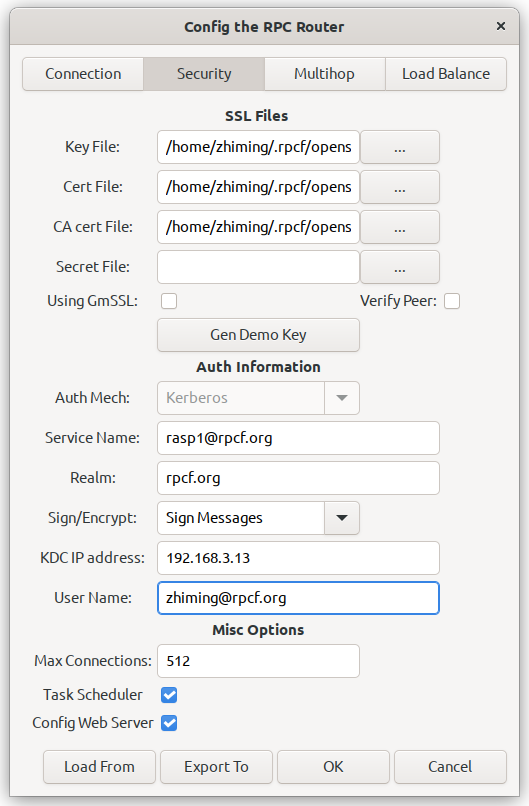
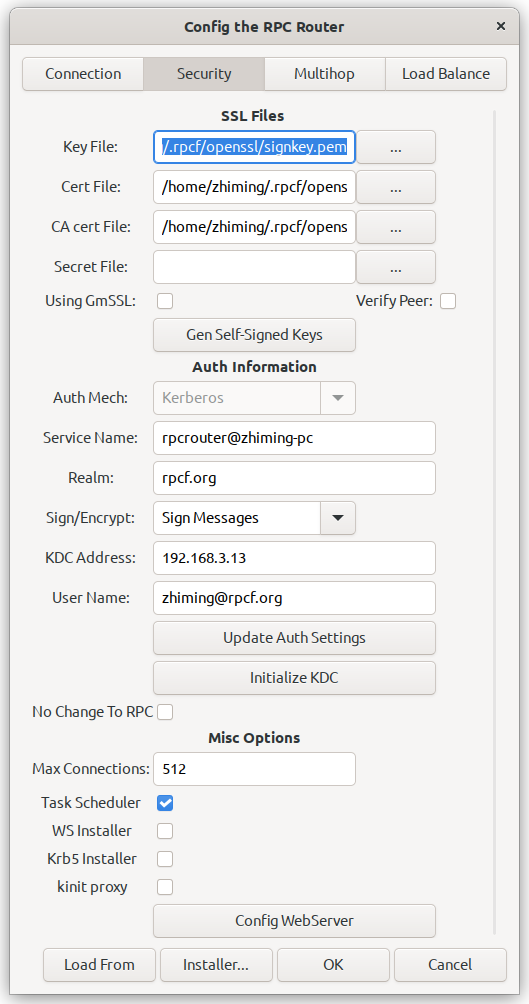
. rpcfg.py: made changes to some label text. . rpcfg2.png: updated to the latest look of security page

diff --git a/tools/rpcfg.py b/tools/rpcfg.py
@@ -2539,14 +2539,14 @@ EOF
         self.tsCheck = tsCheck
  
         labelCfgWs = Gtk.Label()
-        labelCfgWs.set_text("Setup WS")
+        labelCfgWs.set_text("WS Installer")
         labelCfgWs.set_xalign(.5)
         grid.attach( labelCfgWs, startCol + 0, startRow + 3, 1, 1 )
 
         checkCfgWs = Gtk.CheckButton(label="")
         checkCfgWs.props.active = False
         checkCfgWs.set_tooltip_text( 
-            "The installer will setup WebServer for rpc-frmwrk" )
+            "The installer can setup WebServer for rpc-frmwrk" )
 
         checkCfgWs.connect(
             "toggled", self.on_button_toggled, "CfgWs")
@@ -2557,14 +2557,14 @@ EOF
             return
 
         labelCfgKrb5 = Gtk.Label()
-        labelCfgKrb5.set_text("Setup Krb5")
+        labelCfgKrb5.set_text("Krb5 Installer")
         labelCfgKrb5.set_xalign(.5)
         grid.attach( labelCfgKrb5, startCol + 0, startRow + 4, 1, 1 )
 
         checkCfgKrb5 = Gtk.CheckButton(label="")
         checkCfgKrb5.props.active = False
         checkCfgKrb5.set_tooltip_text(
-            "The installer will setup the Kerberos for rpc-frmwrk" )
+            "The installer can setup Kerberos for rpc-frmwrk" )
 
         checkCfgKrb5.connect(
             "toggled", self.on_button_toggled, "CfgAuth")
@@ -2594,7 +2594,7 @@ EOF
         updWsBtn = Gtk.Button.new_with_label( btnText )
         updWsBtn.connect("clicked", self.on_update_ws_settings )
         updWsBtn.set_tooltip_text(
-            "Update the local WebServer settings" )
+            "Config the local WebServer" )
 
         grid.attach( updWsBtn, startCol + 1, startRow + 6, 2, 1 )
 
